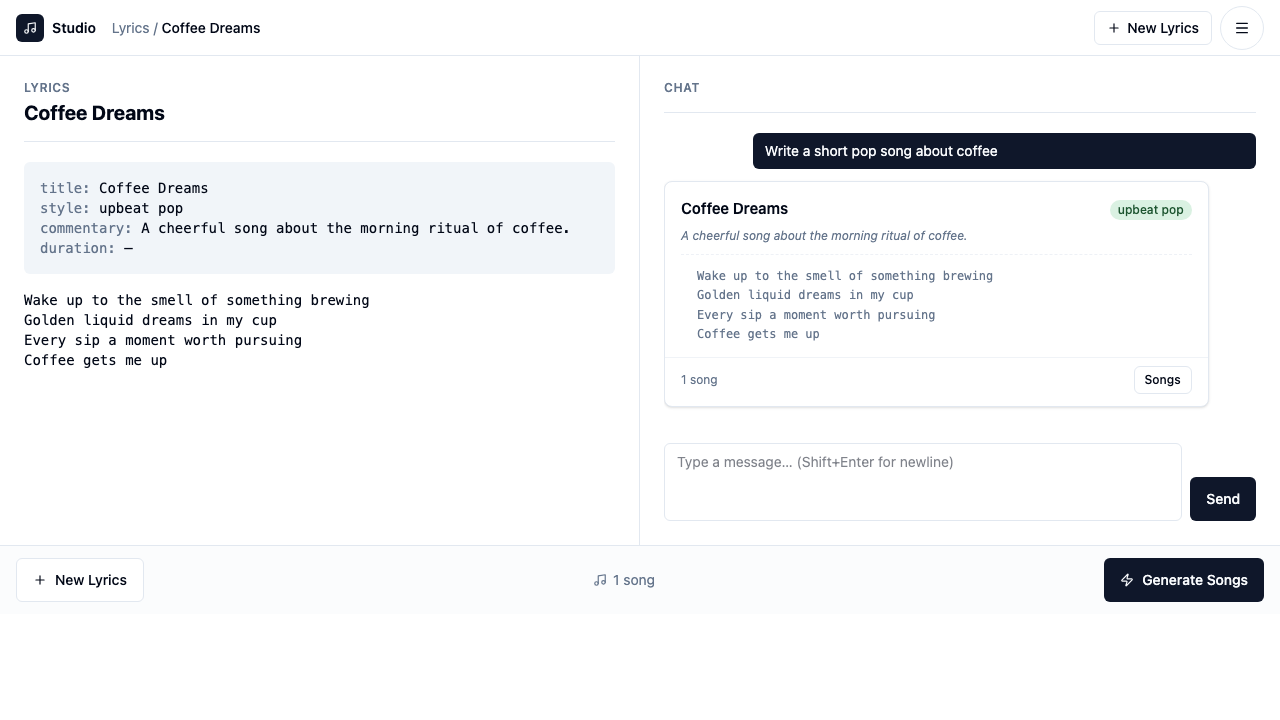
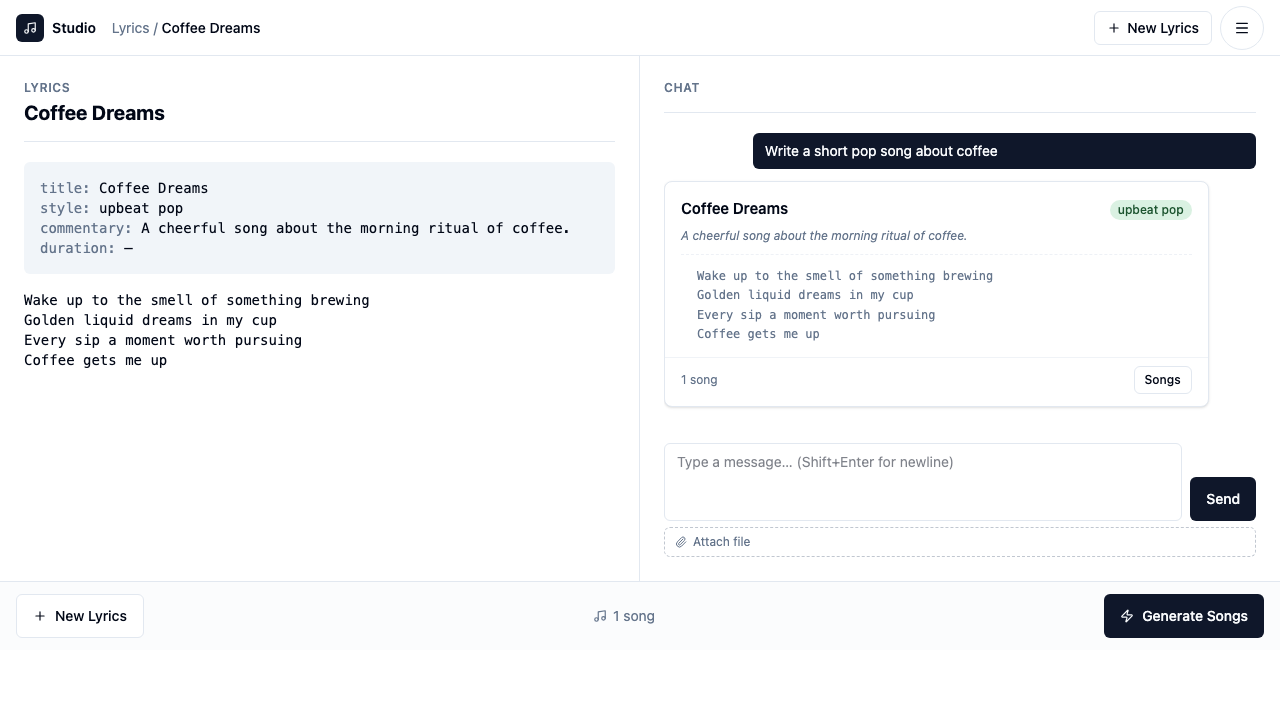
feat(US-029): reusable file upload dropzone for image and lyrics inputs
Create FileDropzone component in src/shared/components/FileDropzone.tsx
with drag-and-drop, click-to-browse, inline file display, and removal
support. Apply it to the remix image input in SessionView and the chat
input in LyricsGenerator. Regenerate screenshot baselines to reflect
the updated chat form layout.

diff --git a/src/shared/components/FileDropzone.tsx b/src/shared/components/FileDropzone.tsx
@@ -1,0 +1,183 @@
+/**
+ * FileDropzone — reusable drag-and-drop file upload component (US-029).
+ *
+ * Renders an inline dropzone that:
+ *   - Activates visually when a file is dragged over it
+ *   - Supports click-to-browse as a fallback
+ *   - Shows the selected file name inline with a remove button
+ *   - Calls onFileChange(file) when a file is selected or null when cleared
+ *
+ * Designed to be embedded inside an input area, not as a separate panel.
+ *
+ * Usage:
+ *   const [file, setFile] = useState<File | null>(null);
+ *
+ *   <FileDropzone
+ *     file={file}
+ *     onFileChange={setFile}
+ *     accept="image/jpeg,image/png"
+ *     label="Reference image"
+ *   />
+ */
+
+import { useCallback, useRef, useState } from "react";
+import type React from "react";
+import { Paperclip, X } from "lucide-react";
+
+export interface FileDropzoneProps {
+  /** The currently attached file, or null if none. */
+  file: File | null;
+  /** Called with the new File when selected, or null when cleared. */
+  onFileChange: (file: File | null) => void;
+  /**
+   * MIME type filter string passed to the file input's accept attribute.
+   * Example: "image/jpeg,image/png"
+   */
+  accept?: string;
+  /**
+   * Short label shown inside the dropzone when no file is selected.
+   * Defaults to "Attach file".
+   */
+  label?: string;
+  /** data-testid prefix; dropzone gets "{testId}", remove button gets "{testId}-remove" */
+  testId?: string;
+  /** Whether the dropzone is disabled (no interaction). */
+  disabled?: boolean;
+}
+
+export function FileDropzone({
+  file,
+  onFileChange,
+  accept,
+  label = "Attach file",
+  testId = "file-dropzone",
+  disabled = false,
+}: FileDropzoneProps) {
+  const inputRef = useRef<HTMLInputElement>(null);
+  const [isDraggingOver, setIsDraggingOver] = useState(false);
+
+  const handleClick = useCallback(() => {
+    if (disabled) return;
+    inputRef.current?.click();
+  }, [disabled]);
+
+  const handleKeyDown = useCallback(
+    (e: React.KeyboardEvent) => {
+      if (disabled) return;
+      if (e.key === "Enter" || e.key === " ") {
+        e.preventDefault();
+        inputRef.current?.click();
+      }
+    },
+    [disabled]
+  );
+
+  const handleInputChange = useCallback(
+    (e: React.ChangeEvent<HTMLInputElement>) => {
+      const picked = e.target.files?.[0] ?? null;
+      onFileChange(picked);
+      // Reset so the same file can be re-selected after removal.
+      e.target.value = "";
+    },
+    [onFileChange]
+  );
+
+  const handleDragOver = useCallback(
+    (e: React.DragEvent<HTMLDivElement>) => {
+      if (disabled) return;
+      e.preventDefault();
+      setIsDraggingOver(true);
+    },
+    [disabled]
+  );
+
+  const handleDragLeave = useCallback((e: React.DragEvent<HTMLDivElement>) => {
+    // Only clear when leaving the dropzone entirely (not entering a child).
+    if (!e.currentTarget.contains(e.relatedTarget as Node)) {
+      setIsDraggingOver(false);
+    }
+  }, []);
+
+  const handleDrop = useCallback(
+    (e: React.DragEvent<HTMLDivElement>) => {
+      e.preventDefault();
+      setIsDraggingOver(false);
+      if (disabled) return;
+      const dropped = e.dataTransfer.files?.[0] ?? null;
+      if (!dropped) return;
+      onFileChange(dropped);
+    },
+    [disabled, onFileChange]
+  );
+
+  const handleRemove = useCallback(
+    (e: React.MouseEvent) => {
+      e.stopPropagation();
+      onFileChange(null);
+    },
+    [onFileChange]
+  );
+
+  return (
+    <div
+      role="button"
+      tabIndex={disabled ? -1 : 0}
+      aria-label={file ? `Attached: ${file.name}. Press to change.` : label}
+      aria-disabled={disabled}
+      data-testid={testId}
+      onClick={handleClick}
+      onKeyDown={handleKeyDown}
+      onDragOver={handleDragOver}
+      onDragLeave={handleDragLeave}
+      onDrop={handleDrop}
+      className={[
+        "inline-flex items-center gap-1.5 rounded-md border px-2.5 py-1.5 text-xs transition-all cursor-pointer select-none",
+        isDraggingOver
+          ? "border-primary bg-primary/10 text-primary shadow-sm"
+          : file
+          ? "border-border bg-muted/50 text-foreground hover:bg-muted"
+          : "border-dashed border-muted-foreground/40 text-muted-foreground hover:border-muted-foreground/70 hover:text-foreground",
+        disabled ? "opacity-50 pointer-events-none" : "",
+      ]
+        .filter(Boolean)
+        .join(" ")}
+    >
+      {/* Hidden native file input */}
+      <input
+        ref={inputRef}
+        type="file"
+        accept={accept}
+        onChange={handleInputChange}
+        className="sr-only"
+        tabIndex={-1}
+        aria-hidden="true"
+        data-testid={`${testId}-input`}
+      />
+
+      <Paperclip className="h-3 w-3 shrink-0" aria-hidden="true" />
+
+      {file ? (
+        <>
+          <span
+            className="truncate max-w-[160px]"
+            data-testid={`${testId}-filename`}
+          >
+            {file.name}
+          </span>
+          {/* Remove attachment button */}
+          <button
+            type="button"
+            aria-label="Remove attachment"
+            data-testid={`${testId}-remove`}
+            onClick={handleRemove}
+            className="ml-0.5 rounded-full p-0.5 hover:bg-muted-foreground/20 transition-colors"
+          >
+            <X className="h-2.5 w-2.5" aria-hidden="true" />
+          </button>
+        </>
+      ) : (
+        <span>{label}</span>
+      )}
+    </div>
+  );
+}

diff --git a/src/music/pages/LyricsGenerator.tsx b/src/music/pages/LyricsGenerator.tsx
@@ -39,6 +39,7 @@ import { ApiKeyMissingModal } from "@/shared/components/ApiKeyMissingModal";
 import { LyricsItemCard } from "@/music/components/LyricsItemCard";
 import { Toast, useToast } from "@/shared/components/Toast";
 import { useApiKeyGuard } from "@/shared/hooks/useApiKeyGuard";
+import { FileDropzone } from "@/shared/components/FileDropzone";
 import {
   createMessage,
   getMessage,
@@ -280,6 +281,8 @@ export default function LyricsGenerator() {
   const isMobile = useIsMobile();
 
   const [userInput, setUserInput] = useState("");
+  // US-029: File attachment for the chat input.
+  const [attachedFile, setAttachedFile] = useState<File | null>(null);
   const [isLoading, setIsLoading] = useState(false);
   // Refresh counter: incrementing it causes message to be re-read from storage.
   const [refreshCount, setRefreshCount] = useState(0);
@@ -428,18 +431,27 @@ export default function LyricsGenerator() {
   );
 
   const handleSubmitCore = useCallback(
-    async (trimmed: string) => {
+    async (trimmed: string, fileAttachment: File | null) => {
       setIsLoading(true);
+      // Clear the attached file immediately after submission.
+      setAttachedFile(null);
 
       // Determine the parentId for the new user message.
       // If there is a current message, the user message is a child of it.
       // If this is /lyrics/new, start a new root message.
       const parentId = id && currentMessage ? id : null;
 
+      // US-029: If a file is attached, append a note to the message content
+      // so the LLM has context about the attachment.
+      const content =
+        fileAttachment
+          ? `${trimmed}\n\n[Attached file: ${fileAttachment.name}]`
+          : trimmed;
+
       // Create the user message first.
       const userMsg = createMessage({
         role: "user",
-        content: trimmed,
+        content,
         parentId,
       });
 
@@ -459,7 +471,7 @@ export default function LyricsGenerator() {
             role: m.role as "user" | "assistant",
             content: m.content,
           })),
-          { role: "user" as const, content: trimmed },
+          { role: "user" as const, content },
         ];
 
         const settings = getSettings();
@@ -499,10 +511,11 @@ export default function LyricsGenerator() {
       e.preventDefault();
       const trimmed = userInput.trim();
       if (!trimmed || isLoading) return;
-      // Capture trimmed so the deferred action uses the same input text.
-      guardAction(() => void handleSubmitCore(trimmed));
+      // Capture trimmed and attachedFile so the deferred action uses the same values.
+      const fileSnapshot = attachedFile;
+      guardAction(() => void handleSubmitCore(trimmed, fileSnapshot));
     },
-    [userInput, isLoading, guardAction, handleSubmitCore]
+    [userInput, isLoading, attachedFile, guardAction, handleSubmitCore]
   );
 
   function handleGenerateSongs() {
@@ -689,28 +702,38 @@ export default function LyricsGenerator() {
   const ChatForm = (
     <form
       onSubmit={handleSubmit}
-      className="flex gap-2 items-end"
+      className="flex flex-col gap-1.5"
       data-testid="chat-form"
     >
-      <textarea
-        value={userInput}
-        onChange={(e) => setUserInput(e.target.value)}
-        onKeyDown={(e) => {
-          if (e.key === "Enter" && !e.shiftKey) {
-            e.preventDefault();
-            handleSubmit(e as unknown as React.FormEvent);
-          }
-        }}
-        placeholder="Type a message… (Shift+Enter for newline)"
-        aria-label="Chat message"
+      <div className="flex gap-2 items-end">
+        <textarea
+          value={userInput}
+          onChange={(e) => setUserInput(e.target.value)}
+          onKeyDown={(e) => {
+            if (e.key === "Enter" && !e.shiftKey) {
+              e.preventDefault();
+              handleSubmit(e as unknown as React.FormEvent);
+            }
+          }}
+          placeholder="Type a message… (Shift+Enter for newline)"
+          aria-label="Chat message"
+          disabled={isLoading}
+          rows={3}
+          className="flex-1 border rounded-md px-3 py-2 text-sm bg-background focus:outline-none focus:ring-2 focus:ring-ring disabled:opacity-50 resize-none"
+          data-testid="chat-input"
+        />
+        <Button type="submit" disabled={isLoading} data-testid="chat-submit" className="min-h-[44px]">
+          {isLoading ? "Sending…" : "Send"}
+        </Button>
+      </div>
+      {/* US-029: File attachment dropzone rendered inline below the textarea */}
+      <FileDropzone
+        file={attachedFile}
+        onFileChange={setAttachedFile}
+        label="Attach file"
+        testId="chat-file-dropzone"
         disabled={isLoading}
-        rows={3}
-        className="flex-1 border rounded-md px-3 py-2 text-sm bg-background focus:outline-none focus:ring-2 focus:ring-ring disabled:opacity-50 resize-none"
-        data-testid="chat-input"
       />
-      <Button type="submit" disabled={isLoading} data-testid="chat-submit" className="min-h-[44px]">
-        {isLoading ? "Sending…" : "Send"}
-      </Button>
     </form>
   );
 

diff --git a/src/image/pages/SessionView.tsx b/src/image/pages/SessionView.tsx
@@ -94,6 +94,7 @@ import type { ImageModelDef } from "@/image/lib/imageModels";
 import { ModelMultiSelect } from "@/image/components/ModelMultiSelect";
 import { usePoeBalanceContext } from "@/shared/context/PoeBalanceContext";
 import { FullscreenImageViewer } from "@/image/components/FullscreenImageViewer";
+import { FileDropzone } from "@/shared/components/FileDropzone";
 
 // ─── Download helper (US-023) ──────────────────────────────────────────────
 
@@ -1310,29 +1311,20 @@ export default function SessionView() {
                 data-testid="model-picker"
               />
             </div>
-            {/* Remix image upload (US-006): shown when any selected model supports remix */}
+            {/* Remix image upload (US-006 / US-029): shown when any selected model supports remix */}
             {selectedModels.some((m) => m.supportsRemix) && (
               <div className="flex items-center gap-2">
-                <label
-                  htmlFor="remix-image-upload"
-                  className="text-xs text-muted-foreground whitespace-nowrap shrink-0"
-                >
+                <span className="text-xs text-muted-foreground whitespace-nowrap shrink-0">
                   Reference image
-                </label>
-                <input
-                  id="remix-image-upload"
-                  type="file"
+                </span>
+                <FileDropzone
+                  file={remixFile}
+                  onFileChange={setRemixFile}
                   accept="image/jpeg,image/png"
-                  onChange={(e) => setRemixFile(e.target.files?.[0] ?? null)}
-                  className="text-xs"
-                  data-testid="remix-image-upload"
-                  aria-label="Reference image for remix"
+                  label="Drag &amp; drop or click to attach"
+                  testId="remix-image-upload"
+                  disabled={isGenerating}
                 />
-                {remixFile && (
-                  <span className="text-xs text-muted-foreground truncate max-w-[180px]" data-testid="remix-file-name">
-                    {remixFile.name}
-                  </span>
-                )}
               </div>
             )}
           </div>
